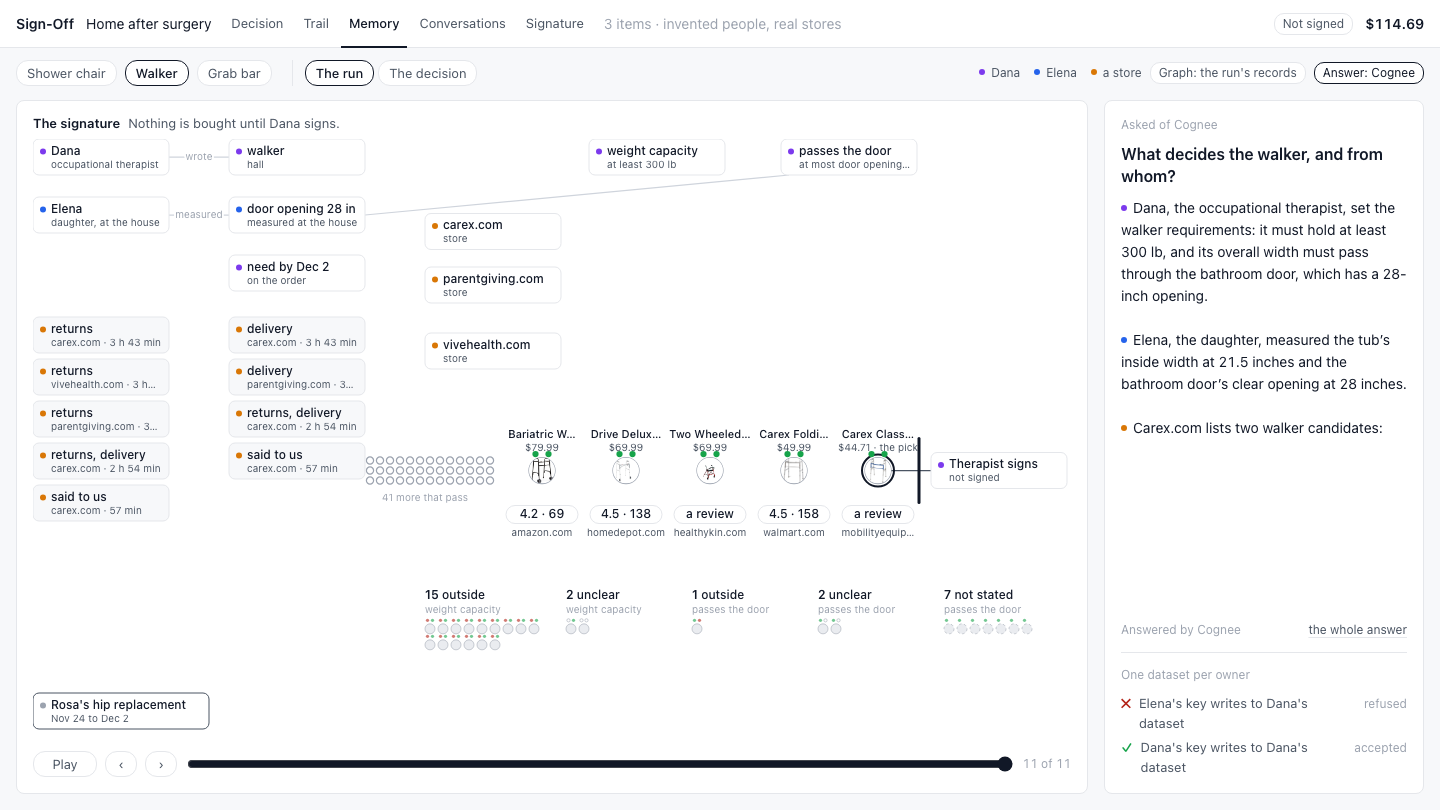
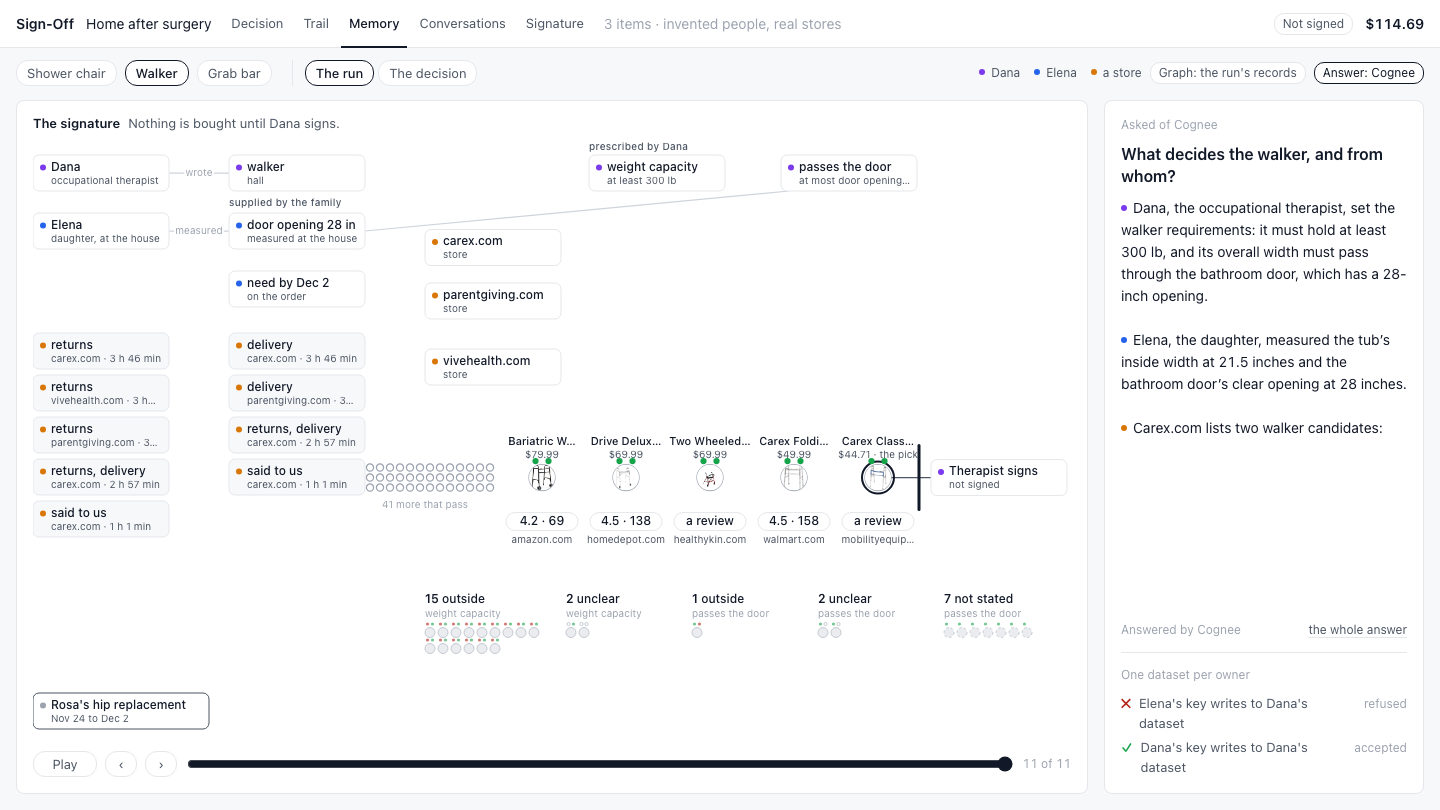
GRAPH: H8 limits are prescribed: no fact feeds a limit (refused in code, tested); the three sources named on the canvas

diff --git a/web/graph/explore.js b/web/graph/explore.js
@@ -55,18 +55,19 @@ function plan(k) {
     known.forEach((n, i) => { fy.set(n.id, i * (CH + px(6))); put(n.id, XS, fy.get(n.id), { w: FW, o: k >= iOrder && !n.used ? 0.4 : 1 }); });
     const XD = XS + FW + px(166), XE = XD + CW + px(24);
     const want = (id) => { const ys = data.edges.filter((e) => e.feeds && e.to === id).map((e) => fy.get(e.from)); return ys.length ? ys.reduce((a, b) => a + b, 0) / ys.length : null; };
-    const stack = (list, x) => {
-      let prev = -Infinity, last = 0;
-      list.map((n, i) => ({ n, y: want(n.id), i })).map((o) => { if (o.y == null) o.y = o.i === 0 ? 0 : null; return o; })
-        .map((o, i, all) => { if (o.y == null) o.y = (all[i - 1]?.y ?? 0) + 1; return o; })
-        .sort((a, b) => a.y - b.y || a.i - b.i)
-        .forEach((o) => { const y = Math.max(o.y, prev + CH + px(10)); prev = y; last = y; put(o.n.id, x, y); });
-      return last;
-    };
-    stack([item, ...limits, ...values, ...facts], XE);
     const issuer = people.find((n) => n.id === "person:issuer"), shopper = people.find((n) => n.id === "person:shopper");
-    if (issuer) put(issuer.id, XD, P.get(item.id).y);
-    if (shopper) put(shopper.id, XD, Math.max(want(shopper.id) ?? 0, issuer ? P.get(item.id).y + CH + px(10) : 0));
+    [item, ...limits].forEach((n, i) => put(n.id, XE, i * (CH + px(8))));          // prescribed: the order and its rules
+    if (issuer) put(issuer.id, XD, 0);
+    const below = (1 + limits.length) * (CH + px(8)) + px(22);
+    const sy = Math.max(want(shopper?.id) ?? 0, below);
+    if (shopper) put(shopper.id, XD, sy);
+    let prev = -Infinity;                                                          // supplied: placed to face the facts that feed them
+    [...values, ...facts].map((n, i) => ({ n, y: want(n.id) ?? below + i })).sort((a, b) => a.y - b.y)
+      .forEach((o) => { const y = Math.max(o.y, below, prev + CH + px(10)); prev = y; put(o.n.id, XE, y); });
+    if (k >= iOrder) {
+      if (data.sources?.prescribed) texts.push({ x: XD, y: -px(5), cls: "src", html: esc(data.sources.prescribed) });
+      if (data.sources?.supplied) texts.push({ x: XD, y: sy - px(7), cls: "src", html: esc(data.sources.supplied) });
+    }
     const idle = known.find((n) => !n.used);
     if (idle && k >= iOrder) texts.push({ x: XS + FW + px(10), y: fy.get(idle.id) + CH / 2 + px(3), cls: "gs", html: "held · not used for this order" });
   } else {
@@ -197,12 +198,18 @@ function plan(k) {
       label: e.verb + (e.matches === true ? " · matches" : e.matches === false ? " · differs" : ""), lt: nodes.get(e.to)?.kind === "person" ? 0.5 : 0.27 }); }
     else if (e.verb === "says") card(e.from, e.to, "", "");
     else if (e.verb === "wrote" && nodes.get(e.to)?.kind === "context_message") { if (nodes.get(e.from)?.kind === "context_person") card(e.from, e.to, "", ""); }
+    else if (e.prescribed) { if (eventPhase) card(e.from, e.to, "", ""); }
     else if (e.verb === "wrote" || e.verb === "measured") card(e.from, e.to, "", eventPhase ? "" : e.verb);
     else if (e.verb === "searches" && nodes.get(e.to)?.kind === "store" && k >= iSearch && !ranked) card(e.from, e.to, k === iSearch ? "lit" : "", "");
-    else if (e.verb === "requires" && nodes.get(e.to)?.kind === "home_fact") { if (vis(e.to) && vis(e.from)) lines.push({ a: e.to, b: e.from, cls: "", toCorner: true, card: true }); }
+    else if (e.verb === "requires" && nodes.get(e.to)?.kind === "home_fact") { if (!eventPhase && vis(e.to) && vis(e.from)) lines.push({ a: e.to, b: e.from, cls: "", toCorner: true, card: true }); }
     else if (e.verb === "waits for" && k >= iSign && iSign >= 0) lines.push({ a: e.from, b: e.to, cls: "lit", toCard: true });
     else if (e.verb === "releases") card(e.from, e.to, "lit", "");
     else if (e.verb === "searches" && e.from === "web:search" && k === iWeb) lines.push({ a: e.from, b: e.to, cls: "", fromCard: true });
+  }
+  if (!eventPhase && data.sources) {
+    if (data.sources.prescribed && limits.length) texts.push({ x: P.get(limits[0].id).x, y: -px(5), cls: "src", html: esc(data.sources.prescribed) });
+    if (data.sources.supplied && facts.length + values.length) texts.push({ x: XI, y: CH + px(15), cls: "src", html: esc(data.sources.supplied) });
+    if (data.sources.stated && k >= iSearch && stores.length && !ranked) texts.push({ x: PX0, y: P.get(stores[0].id).y - px(7), cls: "src", html: esc(data.sources.stated) });
   }
   const stage = S[k];
   if (k === iSearch && stores.length) {                             // the item's own queries, said once
@@ -249,7 +256,7 @@ function glyph(n) {
 
 function build() {
   const { svg, data } = X;
-  svg.innerHTML = `<g class="lines"></g><g class="texts"></g><g class="nodes"></g>`;
+  svg.innerHTML = `<g transform="translate(0 ${px(16)})"><g class="lines"></g><g class="texts"></g><g class="nodes"></g></g>`;
   X.gl = svg.querySelector(".lines"); X.gt = svg.querySelector(".texts");
   const gn = svg.querySelector(".nodes");
   X.els = new Map();
@@ -350,7 +357,7 @@ export function mount(host, data, hooks, opts = {}) {
   host.innerHTML = "";
   const svg = el("svg", { class: "xp", width: host.clientWidth, height: host.clientHeight });
   host.appendChild(svg);
-  X = { host, svg, data, hooks, W: host.clientWidth - px(4), H: host.clientHeight - px(8), sel: null, motion: opts.motion !== false, lineEls: [] };
+  X = { host, svg, data, hooks, W: host.clientWidth - px(4), H: host.clientHeight - px(24), sel: null, motion: opts.motion !== false, lineEls: [] };
   build();
   go(Math.min(opts.stage ?? 0, data.stages.length - 1), true);
   svg.addEventListener("click", (e) => {

diff --git a/web/graph/graph.css b/web/graph/graph.css
@@ -121,3 +121,4 @@ svg.xp .stop { font: 0.625rem var(--f); fill: var(--bad); stroke: none; text-anc
 svg.xp .k-context_fact.lit .b { stroke: var(--t1); stroke-width: 1.5; }
 svg.xp .ln.lit { stroke: var(--t2); stroke-width: 1.25; }
 svg.xp .k-event .b { stroke: var(--t2); }
+svg.xp .src { font: 500 0.625rem var(--f); fill: var(--t2); stroke: none; text-anchor: start; letter-spacing: 0.02em; }

diff --git a/signoff/graph/explore.py b/signoff/graph/explore.py
@@ -181,7 +181,7 @@ def explore(records: dict, line_id: str, reviews: dict | None = None, recall: di
                 edges.append({"from": rid, "verb": "remembered", "to": held, "owner": m.get("store"), "source": extra[held]["source"]})
 
     # the event the order comes out of: its people, its messages, and the facts quoted from them
-    event_ids, fed, held_only = [], 0, 0
+    event_ids, fed, held_only, refused_feeds = [], 0, 0, []
     if context and context.get("event"):
         file = context.get("file")
         role = {(sheet.get(r) or {}).get("id"): r for r in ("issuer", "shopper")}
@@ -230,11 +230,15 @@ def explore(records: dict, line_id: str, reviews: dict | None = None, recall: di
                     if found and vid not in extra:
                         from signoff.graph.context import at_pointer
                         value = at_pointer(sheet, feed["to"])[1]
-                        extra[vid] = {"id": vid, "kind": "sheet_value", "owner": "issuer", "label": "%s %s" % (feed["to"].strip("/").replace("_", " "), _day(value) if isinstance(value, str) else value),
+                        extra[vid] = {"id": vid, "kind": "sheet_value", "owner": role.get(f.get("owner")) or "system", "label": "%s %s" % (feed["to"].strip("/").replace("_", " "), _day(value) if isinstance(value, str) else value),
                                       "sub": "on the order", "text": "%s: %s" % (feed["to"], value),
                                       "source": {"record": "sheet", "file": "sheets/%s.json" % sheet.get("id"), "pointer": feed["to"]}}
                         event_ids.append(vid)
                     targets = [vid] if found else []
+                if any(str(t).startswith("limit:") for t in targets):
+                    # a limit has one source, the order its author wrote: a fact never feeds, explains or sets one
+                    refused_feeds.append({"fact": f.get("id"), "to": feed["to"], "why": "a limit is prescribed by its author, not derived from a fact"})
+                    continue
                 for t in targets:
                     if t in on_item or t in extra:
                         here.append(t)
@@ -242,7 +246,7 @@ def explore(records: dict, line_id: str, reviews: dict | None = None, recall: di
                                       "matches": feed["matches"], "feeds": True, "source": src})
                     else:
                         elsewhere = True
-            used = bool(f["feeds"])
+            used = any(not any(str(t).startswith("limit:") for t in (_target(x["to"], sheet) or [])) for x in f["feeds"])
             fed += 1 if used else 0
             held_only += 0 if used else 1
             extra[fid] = {"id": fid, "kind": "context_fact", "owner": role.get(f.get("owner")) or "system", "label": f.get("label"),
@@ -293,6 +297,12 @@ def explore(records: dict, line_id: str, reviews: dict | None = None, recall: di
             edges.append({"from": "gate", "verb": "releases", "to": cid, "owner": "issuer", "source": build._receipt(made)})
             cart_ids.append(cid)
 
+    for l in limits:  # every limit has exactly one source: its author wrote it in the order
+        edges.append({"from": "person:issuer", "verb": "wrote", "to": l["id"], "owner": "issuer", "prescribed": True, "source": l["source"]})
+    names = {r: (sheet.get(r) or {}).get("name") for r in ("issuer", "shopper")}
+    sources = {"prescribed": "prescribed by %s" % names["issuer"] if names["issuer"] else None,
+               "supplied": "supplied by the family" if event_ids else ("supplied by %s" % names["shopper"] if names["shopper"] else None),
+               "stated": "stated by the stores"}
     keep = set(people) | {item} | set(facts) | {l["id"] for l in limits} | set(stores) | product_ids | {s["id"] for s in statements}
     edges = [e for e in g["edges"] if e["from"] in keep and e["to"] in keep] + edges
 
@@ -317,7 +327,7 @@ def explore(records: dict, line_id: str, reviews: dict | None = None, recall: di
         stages.insert(0, {"id": "event", "title": "What is known", "at": min((extra[i].get("at") or "" for i in event_ids if extra[i].get("at")), default=None),
                           "caption": "%s held from %s; %d shape this order." % (_plural(fed + held_only, "fact"), _plural(len(context["messages"]), "message"), fed),
                           "node_ids_added": [i for i in event_ids if not i.startswith("sheet:")], "node_ids_set_aside": [], "reason_counts": {},
-                          "dropped": context.get("dropped") or []})
+                          "dropped": context.get("dropped") or [], "refused_feeds": refused_feeds})
     if known:
         stages.insert(2 if event_ids else 1, {"id": "known", "title": "What it already knows", "at": None,
                           "caption": "%s recalled, of %s held." % (_plural(len(known), "memory", "memories"), (recall.get("counts") or {}).get("of", len(known))),
@@ -356,7 +366,7 @@ def explore(records: dict, line_id: str, reviews: dict | None = None, recall: di
     return {"line_id": line_id, "need": line.get("need"), "nodes": nodes, "edges": edges, "stages": stages,
             "totals": {"products": len(products), "passing": len(passing), "set_aside": len(aside),
                        "pages": len({(cands[p["id"]].get("product") or {}).get("product_id") for p in products})},
-            "reviews_available": reviews is not None, "recall_available": recall is not None, "talk_available": talk is not None,
+            "sources": sources, "reviews_available": reviews is not None, "recall_available": recall is not None, "talk_available": talk is not None,
             "counts": {"memory": len(known), "message": len(asked), "reply": len(said),
                        "context_fact": fed + held_only, "context_fact_used": fed, "context_message": len((context or {}).get("messages") or [])},
             "context_available": context is not None}

diff --git a/tests/graph/test_context.py b/tests/graph/test_context.py
@@ -61,3 +61,24 @@ def test_the_committed_context_file_holds_every_fact_it_claims():
         got = context.read(json.loads(path.read_text()), sheet, "sheets/" + path.name)
         assert got["dropped"] == [], (path.name, got["dropped"])
         assert all(feed["matches"] is not False for f in got["facts"] for feed in f["feeds"]), path.name
+
+
+def test_no_fact_may_feed_a_limit_and_every_limit_is_written_by_its_author():
+    state = json.loads((ROOT / "fixtures" / "state.json").read_text())
+    sheet = state["sheet"]
+    line = sheet["lines"][0]
+    c = {"event": {"id": "e", "label": "An event", "starts": "2026-11-24", "ends": "2026-12-02"}, "people": [], "classes": {},
+         "messages": [{"id": "m1", "from": sheet["issuer"]["id"], "at": "2026-11-12T10:00:00-08:00", "text": "He weighs 280 lb."}],
+         "facts": [{"id": "weight", "label": "Weighs 280 lb", "value": 280, "class": "health", "owner": sheet["issuer"]["id"], "source": "m1",
+                    "quote": "He weighs 280 lb", "start": 0, "end": 16, "feeds": [{"to": "/lines/0/limits/0", "verb": "is why"}]}]}
+    records = {"state": state, "receipts": [], "order_text": None, "memory": []}
+    got = explore.explore(records, line["id"], context=context.read(c, sheet, "sheets/x_context.json"))
+    nodes = {n["id"]: n for n in got["nodes"]}
+    into_limits = [e for e in got["edges"] if nodes[e["to"]]["kind"] == "limit" and nodes[e["from"]]["kind"] == "context_fact"]
+    assert into_limits == []
+    assert got["stages"][0]["refused_feeds"] == [{"fact": "weight", "to": "/lines/0/limits/0", "why": "a limit is prescribed by its author, not derived from a fact"}]
+    assert nodes["known:weight"]["used"] is False and nodes["known:weight"]["feeds_here"] is False
+    for limit in [n for n in got["nodes"] if n["kind"] == "limit"]:
+        wrote = [e for e in got["edges"] if e["to"] == limit["id"] and e["verb"] == "wrote"]
+        assert [e["from"] for e in wrote] == ["person:issuer"] and wrote[0]["source"] == limit["source"]
+    assert got["sources"]["prescribed"] == "prescribed by %s" % sheet["issuer"]["name"]

diff --git a/NOTES/INTEGRATOR.md b/NOTES/INTEGRATOR.md
@@ -2222,3 +2222,7 @@ open matrix is being checked now. `web/trail/shots/flow.png` and `flow-810.png` 
 - The changed context file is read (Rosa; seven messages; eleven facts, none dropped, no feed differs: `uv run pytest tests/graph -q` → `19 passed, 1 deselected`; `./hk check` → PASS). The event stage shows "held by Elena's agent" from `held_by.who`; the note's full text is the event node's text on click.
 - Autoplay checked in a headless Chrome from a cold open (no `stage` in the URL): it runs the eleven stages and lands exactly on the last layout. Two faults found and fixed on the way: a tween driven by the frame's timestamp could overshoot, and the canvas was measured before its controls were drawn.
 - /graph/ needs an app restart after the merge (the static mount is made at start-up). URLs for stills: `/graph/?live=0&line_id=L4&stage=N` (N from 0 to 10); `&view=detail` for the five columns.
+
+## GRAPH 15:03 — DONE H8 (limits are prescribed, never derived)
+- DONE H8: in `signoff/graph/explore.py` a feed whose target is a limit is refused in code, whatever the file says (listed in the event stage's `refused_feeds`, never drawn), and every limit carries exactly one authored edge, `person:issuer —wrote→ limit`, with the order's own span as its source. Proof: `uv run pytest tests/graph -q` → `20 passed, 1 deselected` (`test_no_fact_may_feed_a_limit_and_every_limit_is_written_by_its_author`); `curl -s 'http://127.0.0.1:8009/api/graph/explore?line_id=L4'` → the only edges into a limit from outside the stores' pages are `('person:issuer', 'wrote', 'limit:L4.capacity')` and `('person:issuer', 'wrote', 'limit:L4.door')`; `refused_feeds: []` with the corrected file; caption "10 facts held from 7 messages; 6 shape this order."
+- The three sources are named on the canvas from `sources` in the reply: "prescribed by Dana" over her order and its rules, "supplied by the family" over Elena, the need-by date and the measurement (the only things a fact's edge reaches), "stated by the stores" over the products. The weight is held, dim, with no edge. Shots re-taken: `web/graph/shots/explore-2.png` (the order stage) and the rest.
